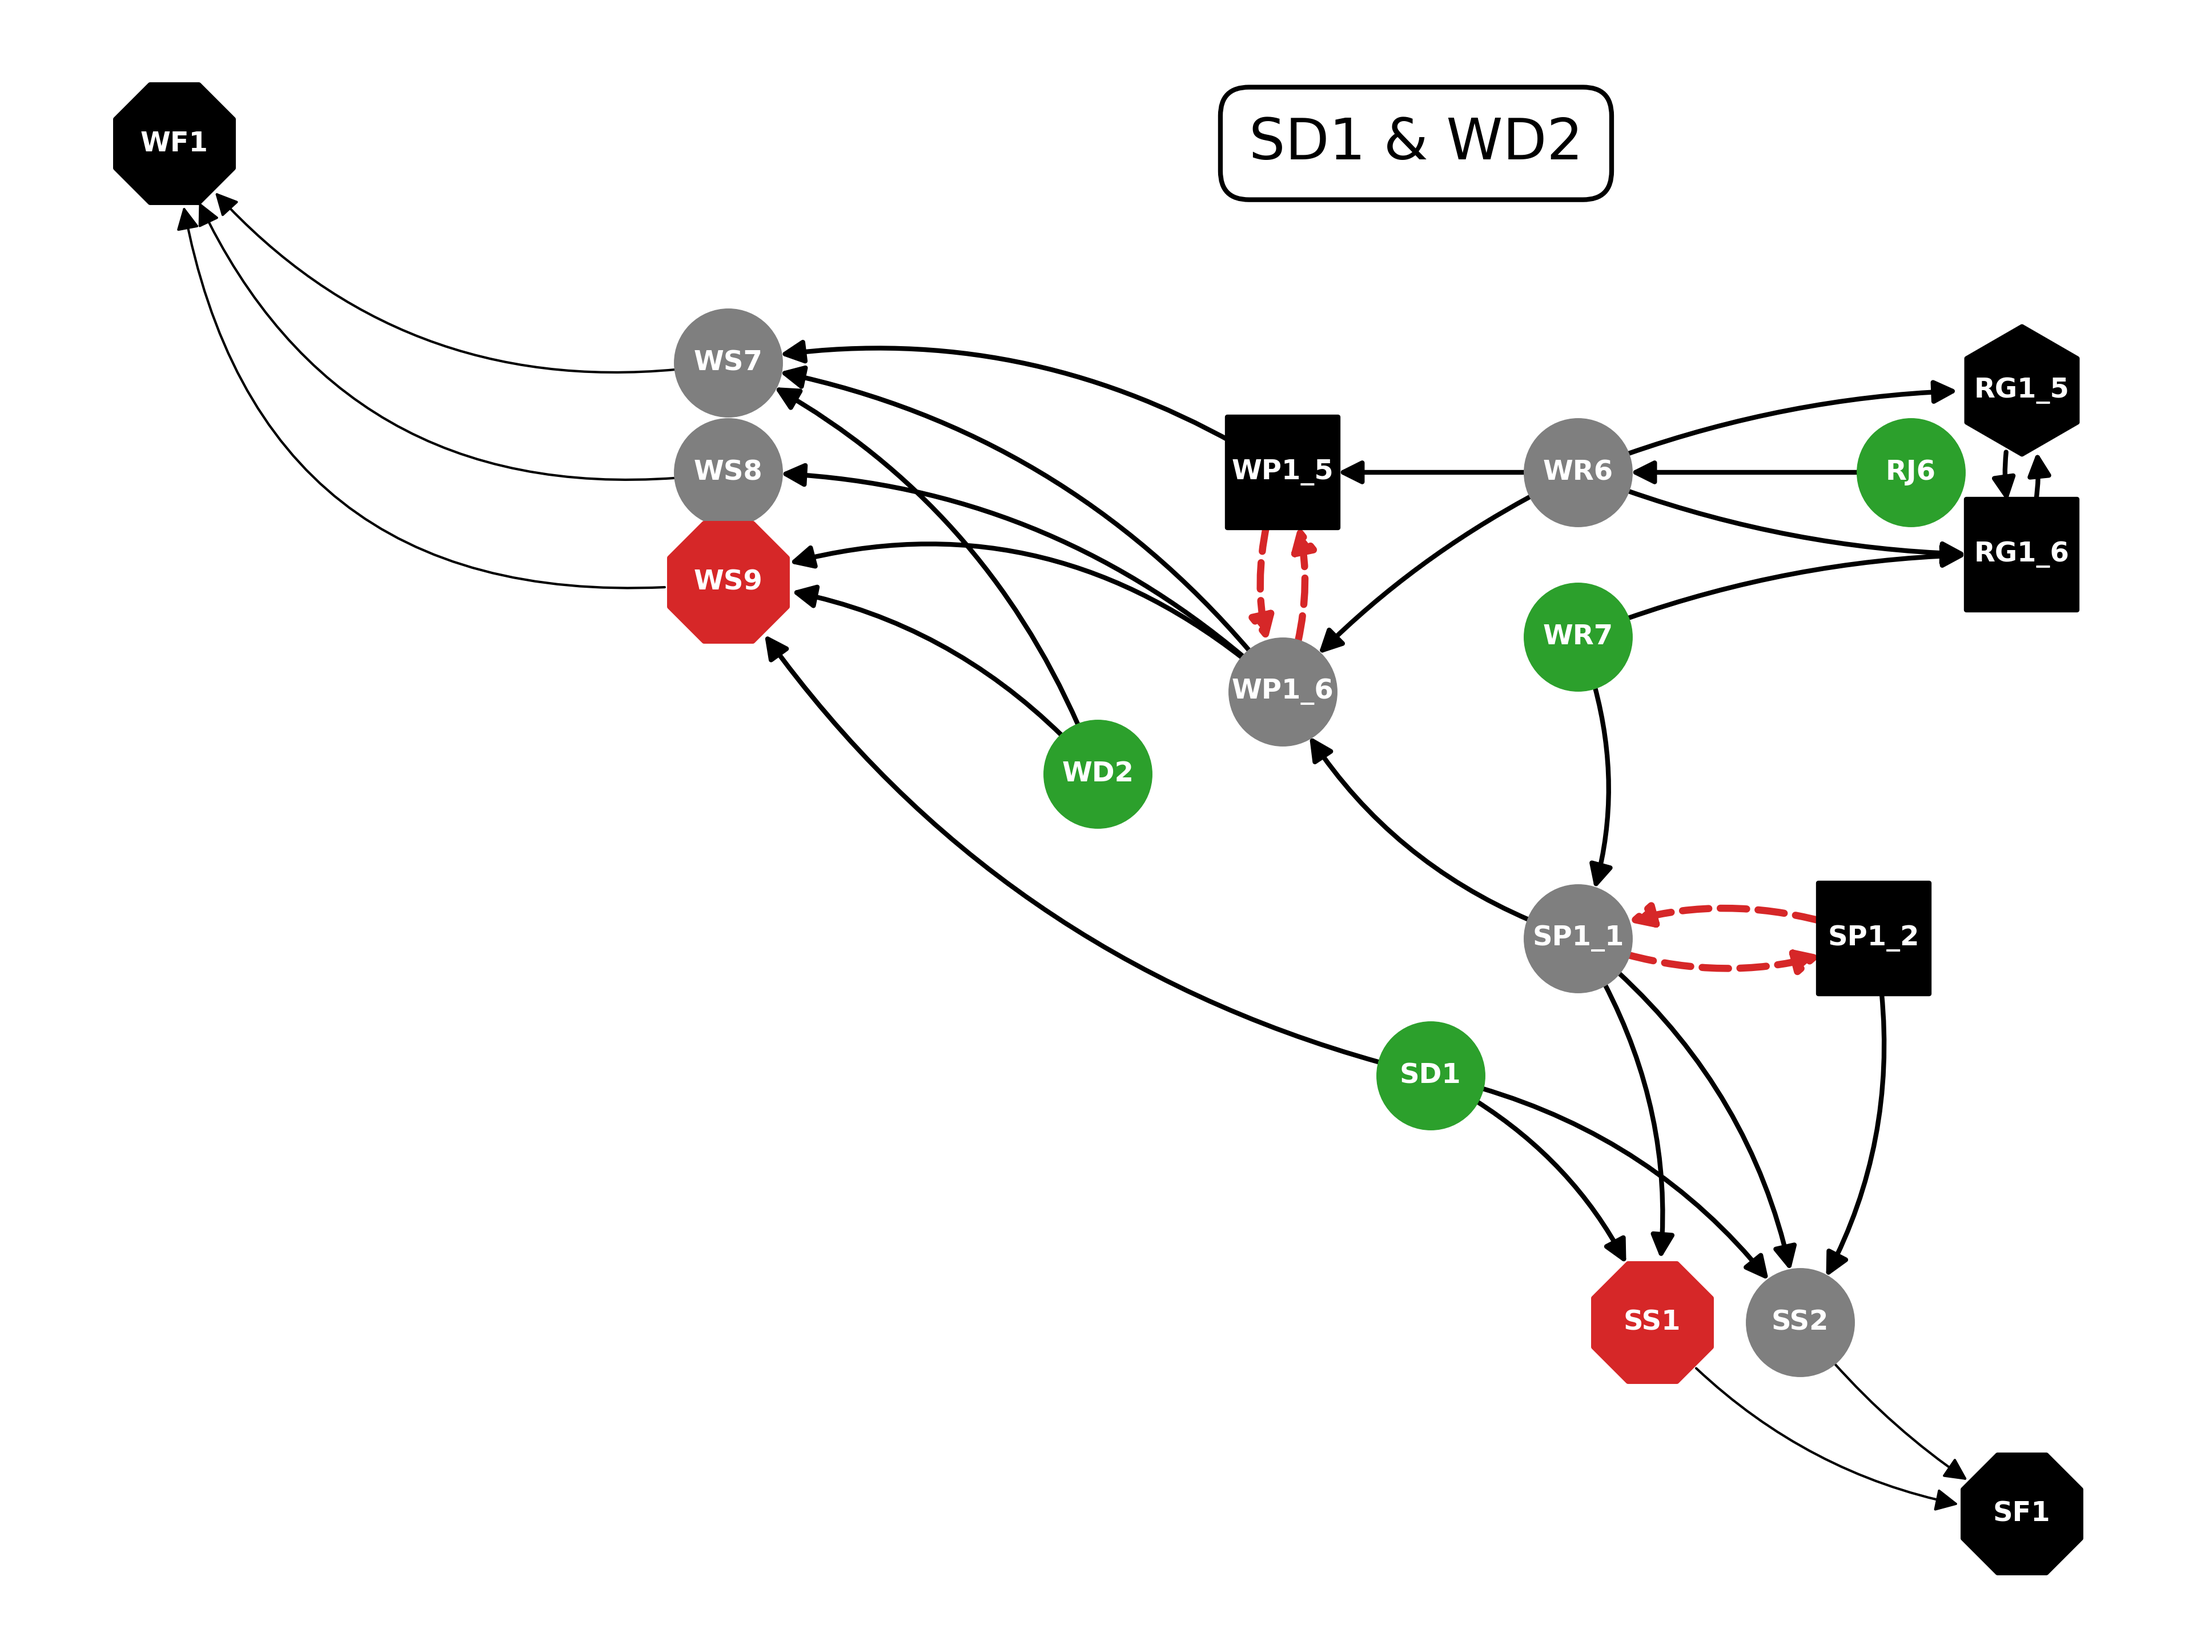
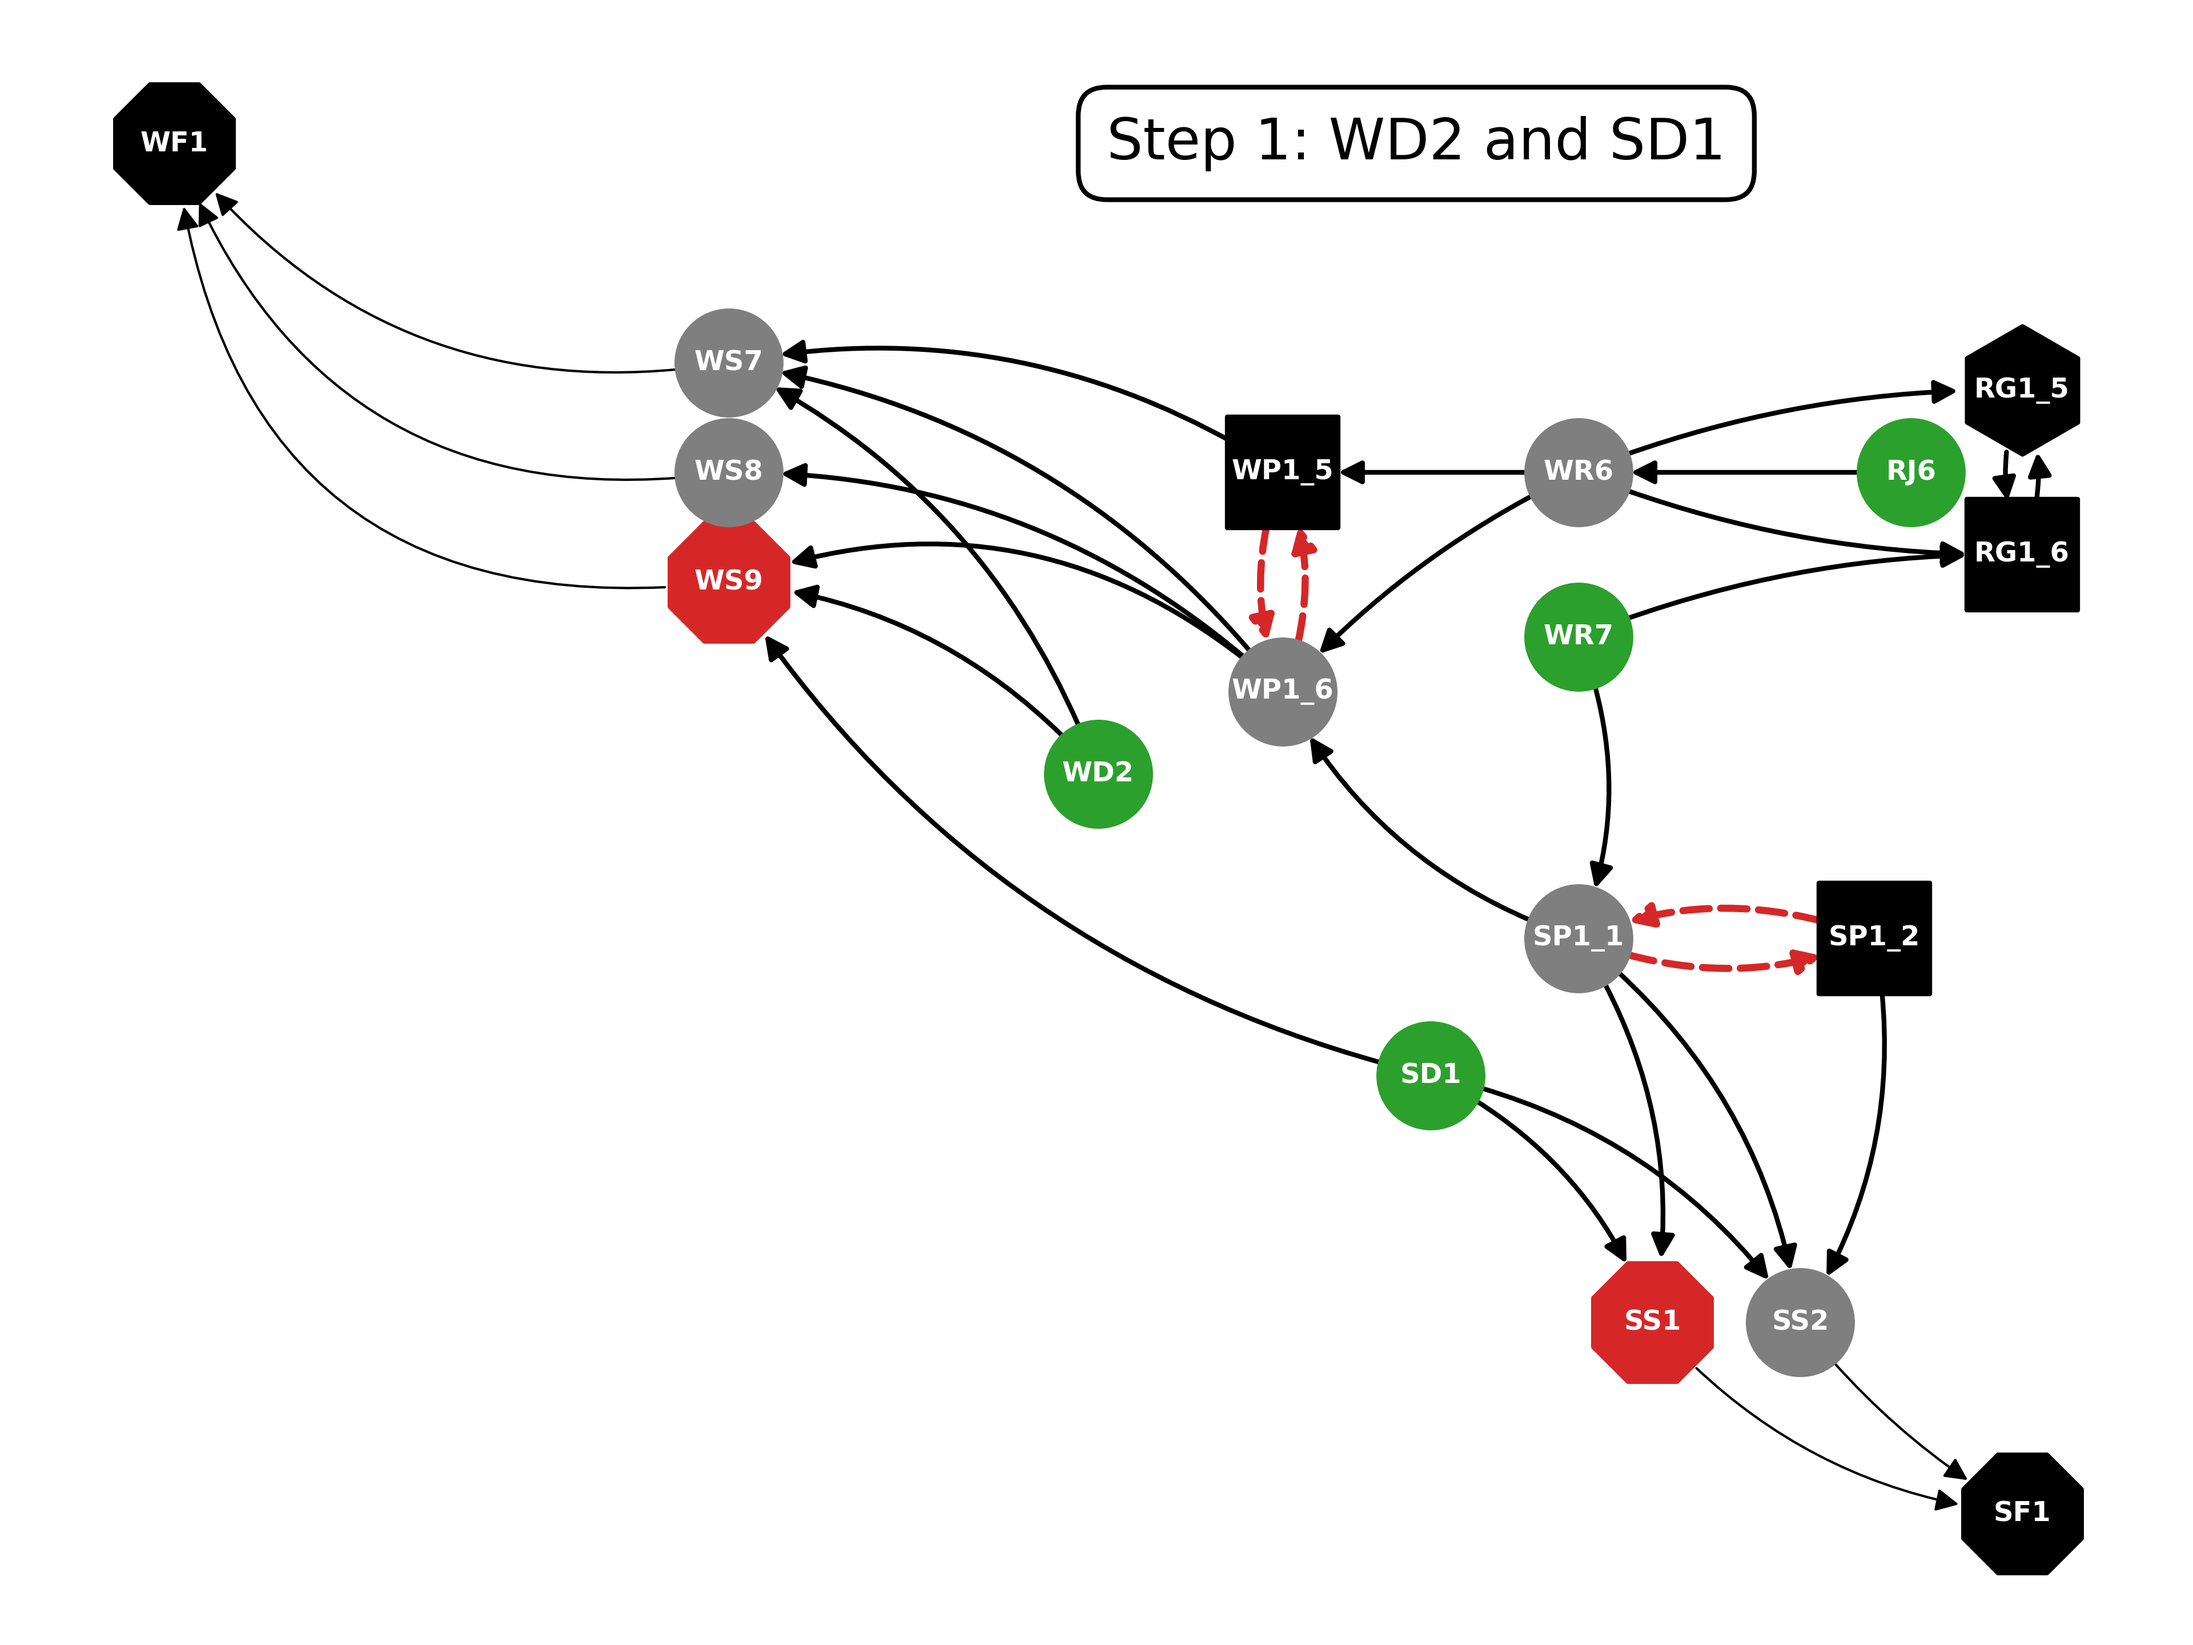
updated sequence generator

Changed region(s): [[0.5, 0.0312, 0.8125, 0.125]]

diff --git a/src/algo_sequence.py b/src/algo_sequence.py
@@ -2,6 +2,7 @@ import networkx as nx
 
 from src.algorithms import (
     node_draw_settings,
+    _count_fixed_sides,
 )
 
 
@@ -24,78 +25,106 @@ def calc_nodes_to_process(K, node_type, num_agents):
     # sort based on 2nd letter of each entry
     nodes_to_process = sorted(nodes_to_process, key=lambda x: x[1])
 
-    steps = _calc_steps(nodes_to_process, num_agents)
+    # steps = _calc_steps(nodes_to_process, num_agents)
 
-    return steps[0]  # take only first set if more than one
-
-
-def remove_disconnected_graphs(K):
-    nodes_remove_disconnected = []
-    components = list(nx.weakly_connected_components(K))
-
-    for i, component in enumerate(components):
-        print("check connected component: {}".format(i + 1))
-        # flag = True
-
-        # Check if all nodes in the component have specific node types
-        if all(
-            K.nodes[n]["node_type"] in ["end_2sides_fixed", "end_1sides_fixed", "end_foundation"]
-            for n in component
-        ):
-            nodes_remove_disconnected.extend(list(component))
-            print(f"--Component of only fixed nodes: {nodes_remove_disconnected}")
-
-    K.remove_nodes_from(nodes_remove_disconnected)
+    return nodes_to_process  # take only first set if more than one
 
 
-def relabel_graph_end(K):
-    if all(
-        K.nodes[n]["node_type"]
-        in ["end_2sides_fixed", "end_1sides_fixed", "end_foundation", "normal"]
-        for n in K.nodes()
-    ):
-        for n in K.nodes():
-            if K.nodes[n]["node_type"] == "normal":
-                node_draw_settings(K, n, "start")
+def make_graph_title(step, nodes):
+    len_nodes = len(nodes)
 
+    if len_nodes == 2:
+        text = "Step {}: {} and {}".format(step, nodes[0], nodes[1])
+    elif len_nodes == 1:
+        text = "Step {}: {}".format(step, nodes[0])
+    else:
+        print("ERROR, IN MAKE_GRAPH_TITLE")
 
-def relabel_graph(K, rm_membs):
-    # Re-label a node if it is now free from supporting others
-    for n in K.nodes():
-        node_type = K.nodes[n]["node_type"]
-        in_degree = K.in_degree(n)
-
-        if in_degree == 0 and node_type == "normal":
-            node_draw_settings(K, n, "start")
-
-        if in_degree == 0 and node_type == "remove":
-            if n == rm_membs[0]:
-                node_draw_settings(K, n, "start")
-
-        if in_degree == 1 and node_type == "normal_1side_fixed":
-            node_draw_settings(K, n, "start")
-
-    # re-run again, if "normal_1side_fixed" --> "start" in previous
-    # now "remove" --> "start" if the "normal_1side_fixed" on top will also be removed
-    for n in K.nodes():
-        node_type = K.nodes[n]["node_type"]
-        in_degree = K.in_degree(n)
-
-        if in_degree == 1 and node_type == "remove":
-            u = list(K.predecessors(n))[0]
-
-            if K.nodes[u]["node_type"] == "start" and n == rm_membs[0]:
-                node_draw_settings(K, n, "start")
+    return text
 
 
 def update_rm_list(node_remove_step, rm_membs):
     """is an active member removed in this step, if so remove"""
     node_remove_step = list(node_remove_step)
 
-    if len(rm_membs):
+    if rm_membs:
         for n in node_remove_step:
             if n == rm_membs[0]:
                 print(f"an active remove member, {n}, is removed")
                 rm_membs.remove(n)
+                break
 
     return rm_membs
+
+
+def remove_disconnected_graphs(K):
+    nodes_remove_disconnected = []
+    components = list(nx.weakly_connected_components(K))
+    desired_n_types = ["end_2sides_fixed", "end_1sides_fixed", "end_foundation"]
+
+    for i, component in enumerate(components):
+        print("check connected component: {}".format(i + 1))
+
+        # Check if all nodes in the component have specific node types
+        if all(K.nodes[n]["node_type"] in desired_n_types for n in component):
+            nodes_remove_disconnected.extend(list(component))
+            print(f"--Component of only fixed nodes: {nodes_remove_disconnected}")
+
+    K.remove_nodes_from(nodes_remove_disconnected)
+
+
+def relabel_graph(K, rm_membs):
+    # Re-label a node if it is now free from supporting others
+    for n in K.nodes():
+        n_type = K.nodes[n]["node_type"]
+        in_deg = K.in_degree(n)
+        num_fixed_sides = _count_fixed_sides(K, n)[0]
+
+        if (
+            (in_deg == 0 and n_type == "normal")
+            or (in_deg == 0 and n_type == "remove" and n == rm_membs[0])
+            or (in_deg == 1 and n_type == "remove" and n == rm_membs[0] and num_fixed_sides == 1)
+            or (in_deg == 1 and n_type == "normal_1side_fixed")
+        ):
+            node_draw_settings(K, n, "start")
+
+    # re-run again, if "normal_1side_fixed" --> "start" in previous
+    # now "remove" --> "start" if the "normal_1side_fixed" on top will also be removed
+    for n in K.nodes():
+        n_type = K.nodes[n]["node_type"]
+        in_deg = K.in_degree(n)
+
+        if (
+            in_deg == 1
+            and n_type == "remove"
+            and K.nodes[list(K.predecessors(n))[0]]["node_type"] == "start"
+            and n == rm_membs[0]
+        ):
+            node_draw_settings(K, n, "start")
+
+
+def relabel_graph_ending(K):
+    desired_n_types = ["end_2sides_fixed", "end_1sides_fixed", "end_foundation", "normal"]
+
+    if all(K.nodes[n]["node_type"] in desired_n_types for n in K.nodes()):
+        for n in K.nodes():
+            if K.nodes[n]["node_type"] == "normal":
+                node_draw_settings(K, n, "start")
+
+
+def relabel_graph_fixed(K):
+    """make start node if only end node on top and no other start members in graph
+    algo will terminate otherwise
+    """
+    desired_n_types = ["end_2sides_fixed", "end_1sides_fixed", "end_foundation"]
+
+    if "start" not in [K.nodes[n]["node_type"] for n in K.nodes()]:
+        for n in K.nodes():
+            node_type = K.nodes[n]["node_type"]
+            in_deg_norm = K.in_degree(n) - _count_fixed_sides(K, n)[0]
+            n_predeces = list(K.predecessors(n))
+
+            cnt_fxd_ontop = sum(1 for k in n_predeces if K.nodes[k]["node_type"] in desired_n_types)
+
+            if node_type in ["normal", "normal_1side_fixed"] and in_deg_norm == cnt_fxd_ontop:
+                node_draw_settings(K, n, "start")

diff --git a/src/build.py b/src/build.py
@@ -12,7 +12,9 @@ from src.algo_sequence import (
     remove_disconnected_graphs,
     update_rm_list,
     relabel_graph,
-    relabel_graph_end,
+    relabel_graph_ending,
+    relabel_graph_fixed,
+    make_graph_title,
 )
 
 from src.io import read_json
@@ -56,6 +58,31 @@ def _add_in_extra_edge(G, K_joined):
         K_joined.edges[n1, n2, 0]["color"] = "black"
 
     print("\nmissing edges in joined subgraphs: {}".format(missing_edges))
+
+
+def _user_input_parse(node_remove_step, num_agents):
+    num_nodes_to_remove = len(node_remove_step)
+
+    if num_nodes_to_remove > num_agents:
+        user_input = input("which of these: {} ".format(node_remove_step))
+        input_list_str = user_input.split()
+
+        try:
+            # Convert each string element to an integer
+            input_list_int = [int(x) for x in input_list_str]
+
+            print("\nParsed list of integers:", input_list_int)
+        except ValueError:
+            print("Invalid input. Please enter a valid list of integers.")
+
+    elif num_nodes_to_remove == num_agents:
+        input_list_int = list(range(0, num_agents))
+    else:
+        input_list_int = list(range(0, num_nodes_to_remove))
+
+    input_list_int.sort(reverse=True)  # avoid index shift when remove
+
+    return input_list_int
 
 
 ######################################################################
@@ -181,31 +208,40 @@ def bld_sequence(K, rm_membs):
     K_reduced_list = []
     sequence = []
 
+    num_agents = 2
     steps = 0
 
     while True:
         print("\nSTART LOOP")
-        steps += 1
 
         # check for any start nodes
-        try:
-            node_remove_step = calc_nodes_to_process(K_reduced, "start", 2)
-        except IndexError:
-            print("No more removal members, break...")
+        nodes_to_remove = calc_nodes_to_process(K_reduced, "start", num_agents)
+
+        if not nodes_to_remove:
+            print("No more removal members, terminate...")
             break
 
-        # save the current subgraph and sequence
-        print(f"Processing nodes in step {steps}: {node_remove_step}")
-        sequence.append(node_remove_step)
-        K_reduced_list.append(K_reduced.copy())
+        # save the current subgraph and sequence infomation
+        while nodes_to_remove:
+            steps += 1
+            user_input = _user_input_parse(nodes_to_remove, num_agents)
 
-        # process the current subgraph for next loop
-        K_reduced.remove_nodes_from(node_remove_step)
-        rm_membs = update_rm_list(node_remove_step, rm_membs)
+            node_remove_step = [nodes_to_remove.pop(index) for index in user_input]
 
-        # remove_disconnected_graphs(K_reduced)
+            print(f"Processing nodes in step {steps}: {node_remove_step}")
+            sequence.append(node_remove_step)
+            K_reduced.graph["title"] = make_graph_title(steps, node_remove_step)
+            K_reduced_list.append(K_reduced.copy())
+
+            # process the current subgraph and prep for next loop
+            K_reduced.remove_nodes_from(node_remove_step)
+            rm_membs = update_rm_list(node_remove_step, rm_membs)
+            # remove_disconnected_graphs(K_reduced)
+
+        # relabel remaining graph
         relabel_graph(K_reduced, rm_membs)
-        relabel_graph_end(K_reduced)
+        relabel_graph_ending(K_reduced)
+        relabel_graph_fixed(K_reduced)
 
         # print output
         print("remaining nodes are {}".format(K_reduced.nodes()))

diff --git a/main.py b/main.py
@@ -27,11 +27,10 @@ if __name__ == "__main__":
 
     # Task #2: Member Removal Sub-graphs
     # rm_membs = list(G.nodes())
-    # rm_membs = ["ES10", "EP1_2", "NP1_1", "ER2"] #paper figure, single
-    # rm_membs = ["WS3", "WP1_2"]  # paper figure, joined
-    # rm_membs = ["SS1", "WS9", "WP1_3", "SS6"]
-    rm_membs = ["WS9", "SS1"]
-    # rm_membs = ["SS3", "SS1"]
+    # rm_membs = ["ES10", "EP1_2", "NP1_1", "ER2"] #Paper figure, single
+    rm_membs = ["WP1_2", "WS3"]  # Paper figure, joined
+    # rm_membs = ["WS9", "SS1"]  # Phase 1
+    # rm_membs = ["SS1", "WS9", "WP1_3", "SS6"] # Phase 2
 
     Ks = bld_subg_single_remove(G, rm_membs)
 
@@ -42,7 +41,7 @@ if __name__ == "__main__":
                 filepath="{}/{}".format(f_out, rm_memb),
                 scale=1.2,
                 plt_show=False,
-                plt_save=False,
+                plt_save=True,
             )
 
     # Joined Subgraphs
@@ -59,14 +58,14 @@ if __name__ == "__main__":
         )
 
     # Task #3: Sequence Generate
-    K_reduced_list, members = bld_sequence(K_joined, rm_membs)
+    K_reduced_list, members = bld_sequence(Ks[0], rm_membs)
 
-    for i, (K_reduced, member) in enumerate(zip(K_reduced_list, members)):
+    for i, K_reduced in enumerate(K_reduced_list):
         draw_graph(
             G=K_reduced,
             filepath="{}/_{}_STEP{}".format(f_out, name, i + 1),
             scale=1.2,
             plt_show=True,
             plt_save=True,
-            plt_text=member,
+            plt_text=True,
         )

diff --git a/src/drawing.py b/src/drawing.py
@@ -157,7 +157,7 @@ def draw_graph(G, filepath, scale=1, plt_show=False, plt_save=False, plt_text=Fa
         plt.text(
             x=middle_x[0],
             y=top_y,
-            s="{} & {}".format(plt_text[0], plt_text[1]),
+            s=G.graph["title"],
             fontsize=12,
             ha="center",
             va="center",
